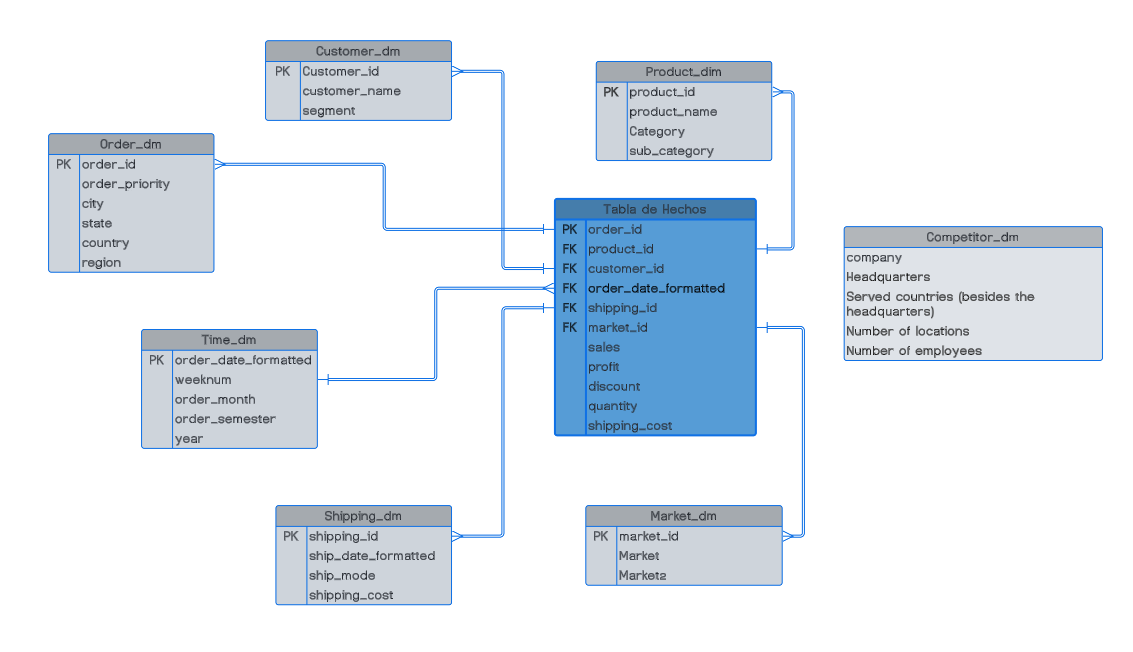
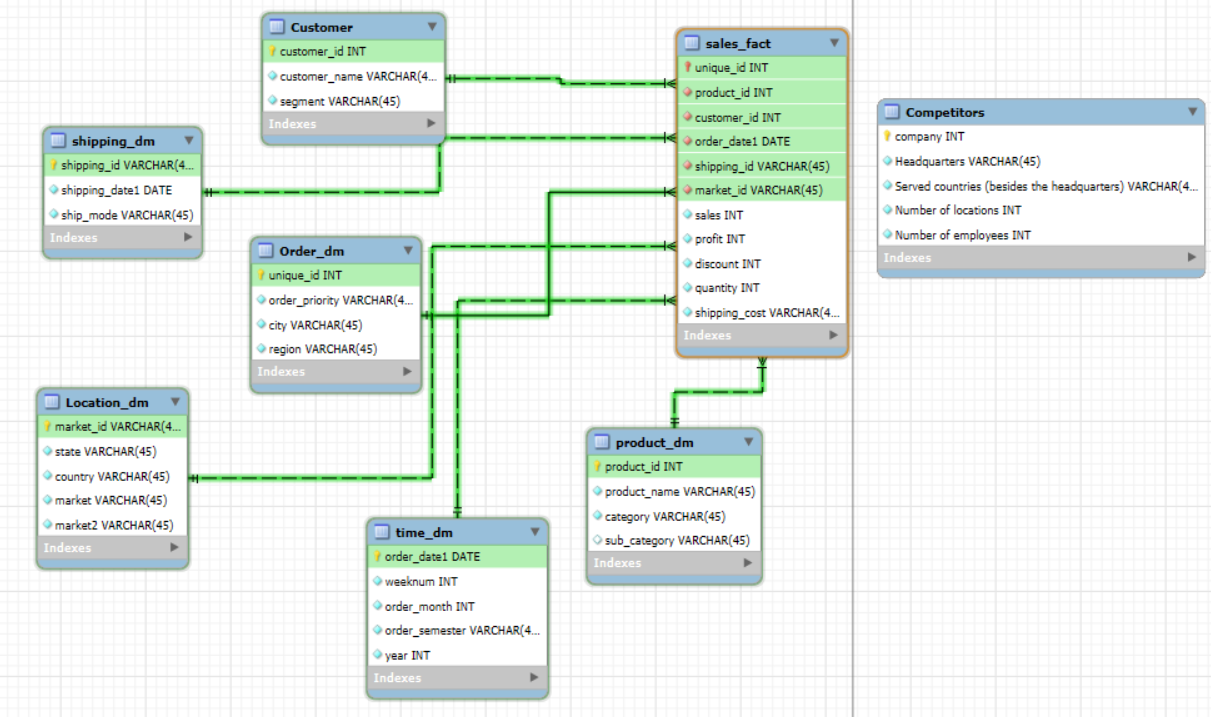
1

diff --git a/README.md b/README.md
@@ -89,9 +89,9 @@ Se realiza limpieza y normalización del data set.
 
 Diseño de la estructura de tablas:
 
-[Diseño](https://lucid.app/lucidchart/2d233643-71af-4b4e-84eb-2e13a9e5aae1/edit?viewport_loc=-1948%2C-274%2C2409%2C1111%2C0_0&invitationId=inv_bc08195d-98b3-498f-9f3c-ea351374ea43) 
+[Diseño LucidChart](https://lucid.app/lucidchart/2d233643-71af-4b4e-84eb-2e13a9e5aae1/edit?viewport_loc=-1948%2C-274%2C2409%2C1111%2C0_0&invitationId=inv_bc08195d-98b3-498f-9f3c-ea351374ea43) 
 
->![alt text](Imagenes/Diagrama.png)
+>![alt text](![alt text](Imagenes/Diagrama.png)
 
 
 El proceso de diseño de las tablas de dimensiones en este modelo relacional siguió un enfoque estructurado para garantizar que las transacciones registradas en la tabla de hechos puedan ser analizadas de manera detallada y eficiente. Este enfoque se centró en la correcta segmentación de los atributos descriptivos y cuantitativos, asegurando una adecuada normalización de los datos, lo que facilita consultas analíticas eficientes y escalables.
@@ -119,7 +119,7 @@ El primer paso consistió en identificar las entidades clave que describen los h
 
 La tabla de hechos está relacionada con cada dimensión mediante claves primarias (PK) y claves foráneas (FK). Por ejemplo:
 
-* order_id (PK) conecta con order_dm.
+* unique_id (PK) conecta con order_dm.
 * product_id (FK) conecta con la Product_dm.
 * customer_ID (FK) conecta la tabla de hechos con customer_dm.
 * order_date_formatted (FK) conecta con time_dm.
@@ -136,6 +136,7 @@ Estas relaciones permiten consultas multidimensionales donde se puede analizar, 
 **3. Creación de Atributos Calculados en las Dimensiones:**
 
 Además de las relaciones entre las tablas, se calcularon atributos como el número de mes (order_month) y el semestre (order_semester) en la dimensión de fechas, para facilitar análisis temporales más detallados. Esto permite análisis estacionales, de trimestres y semestrales.
+Así como tambien Id´s únicos en order_id, market´s y shipping.
 
 **4. Validacion del modelo**
 
